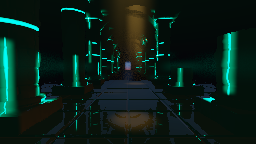
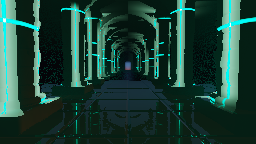
T1309c: the light in the air was a DIFFERENT PATTERN from the light on the stone — subtraction pass
Owner: "the light still has no volume... they look cheaply slapped on sprite like and not
like something actually shining and glowing out of the stone pillars... lights cut off at
random spots instead of having at least one go from top to bottom... almost a totalschaden."

Eight passes of parameter tuning preceded this and the owner said "still" five times. That
is the signal that the shape was wrong rather than rough, so this pass SUBTRACTS and rebuilds
one thing instead of tuning ten.

⚑ THE ROOT CAUSE, AND I HAD DOCUMENTED IT AS A FEATURE. The volumetric sampled
`rowPool * nearColumn * nearBay` — a hash on (row, bay) gated by "am I near a column axis".
It has NO RELATIONSHIP to where a single vein is, its brightness, whether it is lit, or
whether it has guttered out. The hall therefore contained TWO UNRELATED PATTERNS: bright
marks on the stone, and a fog that merely happened to hang near pillars. "Not shining out of
the stone" was literally true — nothing in the air knew the conduits existed.

The old docblock defended this, and the defence is the interesting part: it argued the volume
wants a SMOOTHER field than the surface. True. It then took a DIFFERENT field, and those are
not the same requirement. `inlaySpillAt` was already the smooth one — same veins, same
live/dead decision, same interruptions, a soft window several times the channel width — so
it answers "how much conduit light is near here" in the air exactly as it does on the stone.
Same pattern, softer.
[…]

diff --git a/src/examples/shaders/sanctum.wgsl.ts b/src/examples/shaders/sanctum.wgsl.ts
@@ -96,6 +96,7 @@ struct Params {
   inlayNode: f32,     // @default 0.9  extra light POOLED where a conduit crosses a ring — junctions are where a network shows it is a network
   inlayColor: vec4f,  // @default [0.16, 1, 0.82, 1]  the powered inlay — NOT on the blackbody curve, because anything that burns is human
   inlayEmission: f32, // @default 0.85  how hard the channels burn
+  spillReach: f32,    // @default 5.5  metres the conduit light travels from a column's axis — what makes it a LIGHT rather than a mark
   inlaySpill: f32,    // @default 4.2  how hard the channels light the stone around them — this is the hall's PRIMARY light, not a decoration on it
   inlayDensity: f32,  // @default 0.4  share of veins that are live — a dead conduit is still a channel in the stone
   stoneColor: vec4f,  // @default [0.29, 0.27, 0.25, 1]  the stone under the key
@@ -493,7 +494,16 @@ fn inlaySpillAt(p: vec3f) -> f32 {
   if (p.y < params.plinthHeight) { return 0.0; }
   // A pool around the column's skin rather than a copy of the channel: the glow is "there
   // is a conduit near here", which is a coarser question than "am I on one".
-  let near = 1.0 - smoothstep(params.columnRadius * 1.0, params.columnRadius * 2.9, radial);
+  /* ⚑ AND IT REACHES (T1309c). This window used to stop at 2.9 column radii — about 1.8 m,
+     which is barely outside the shaft itself. So the conduits lit their own stone and
+     NOTHING ELSE: not the floor they stand on, not the plinth beneath them, not the column
+     opposite. That is why the hall read as bright lines drawn on black rather than as a
+     place with lights in it, and it is the other half of "cheaply slapped on" — a light
+     that illuminates nothing is a decal by definition.
+     'spillReach' is in METRES rather than in radii, because what a light reaches is a
+     property of the light and not of the thing carrying it. */
+  let near = (1.0 - smoothstep(params.columnRadius, max(params.spillReach, 0.5), radial))
+    / (1.0 + radial * radial * 0.22);
   let bayIndex = bayOf(p.z);
   let side = select(0.0, 1.0, p.x >= 0.0);
   let turns = max(params.inlayVeins, 1.0);
@@ -505,7 +515,16 @@ fn inlaySpillAt(p: vec3f) -> f32 {
   let key = vec2i((i32(veinIndex) * 31) + i32(side), i32(bayIndex));
   let alive = runNoise(key + vec2i(0, 233), p.y, params.inlayRun * 0.37);
   let unbroken = smoothstep(clamp(params.inlayBreak, 0.0, 0.8), clamp(params.inlayBreak, 0.0, 0.8) + 0.16, alive);
-  return near * veinLit * unbroken * (1.0 - smoothstep(0.0, 1.0, acrossVein));
+  /* ⚑ A LIGHT DOES NOT GO OUT BETWEEN ITS OWN FILAMENTS (T1309c). This used to fall to ZERO
+     at 'acrossVein == 1' — the angular midpoint between two veins — so the stone on a column
+     BETWEEN its conduits received nothing at all, and a column lit by nine channels rendered
+     as nine bright lines on a black cylinder. That is the whole "90s CGI" read: emissive
+     marks with unlit geometry behind them.
+     The wide field is supposed to answer "how much conduit light is near here", and the
+     answer between two lit veins is MOST OF IT, not none. So the angular term now only
+     shapes the falloff instead of gating it. */
+  let around = mix(0.55, 1.0, 1.0 - smoothstep(0.0, 1.0, acrossVein));
+  return near * veinLit * unbroken * around;
 }
 
 fn sdBox(p: vec3f, b: vec3f) -> f32 {
@@ -906,36 +925,26 @@ fn dustAlong(eye: vec3f, dir: vec3f, far: f32, pixel: vec2f, hue: vec3f, key: f3
        is a speckle generator rather than a fog. What the air wants is "roughly how much
        light is near here", so the glyph hash goes and the row window stays — smooth in
        every direction, and cheaper for losing a hash. */
-    let pitch = max(params.inlayRows, 0.05);
-    let row = floor(p.y / pitch);
-    let bayIndex = bayOf(p.z);
-    /* Gated by the SAME row-and-bay test the channels use, so the air glows where there is
-       writing and not in bays without any. Without this the row window is a function of
-       height alone and paints continuous horizontal bands the full width of the hall —
-       which is what the first smooth version did, and it read as a striped fog rather than
-       as light near a wall. The fine glyph and stroke hashes stay out: those are what made
-       the volume speckle. */
-    let live = unitFloat(hash3i(vec3i(i32(row), i32(bayIndex), 0), GLYPH_SEED));
-    /* ⚑ A SMOOTHSTEP, NOT A STEP, and the difference is visible as GRAIN. A hard gate makes
-       the volume binary again in one more axis, and a binary volume sampled sparsely is the
-       speckle generator this file already learned about once — the per-pixel dither decides
-       how many samples land inside the lit cell, so neighbouring pixels disagree and the
-       dark stone beyond the colonnade fills with noise. Softening the gate costs nothing
-       and turns the disagreement into a gradient. */
-    let density = clamp(params.inlayDensity, 0.0, 1.0);
-    let lit = smoothstep(density + 0.1, density - 0.1, live);
-    let withinRow = abs(fract(p.y / pitch) - 0.5) * 2.0;
-    let rowPool = (1.0 - smoothstep(0.0, 1.0, withinRow)) * step(0.4, p.y) * lit;
-    /* Near the columns, where the channels actually are — and NEAR ONE IN BOTH AXES.
-       ⚑ THE X TEST ALONE PAINTS A BAND ACROSS THE WHOLE FRAME. A ray heading sideways
-       still crosses the plane |x| = aisle, and it crosses it at whatever z it happens to
-       be at — including the gaps between bays, where there is no column at all. The
-       result was a flat horizontal band of glow spanning the frame at row height, which
-       is the same failure as the very first smooth version and for the same reason: a
-       gate that is a function of fewer axes than the thing it is gating. */
-    let nearColumn = 1.0 - smoothstep(0.45, 1.7, abs(abs(p.x) - params.aisle));
-    let nearBay = 1.0 - smoothstep(0.5, 1.6, abs((fract(p.z / bayF + 0.5) - 0.5) * bayF));
-    let glow = rowPool * nearColumn * nearBay * hue;
+    /* ⚑ THE VOLUME NOW SAMPLES THE CONDUITS THEMSELVES, AND THE OLD VERSION IS THE REASON
+       THE LIGHT NEVER LOOKED LIKE IT CAME OUT OF THE STONE (T1309c).
+       What used to be here was a row-and-bay hash gated by "am I near a column axis". It is
+       smooth, it is cheap, and it has NO RELATIONSHIP TO WHERE A SINGLE VEIN ACTUALLY IS —
+       not its position around the shaft, not its brightness, not whether it is lit at all.
+       So the hall had two unrelated patterns in it: bright marks on the stone, and a fog
+       that merely happened to hang near pillars. The owner read that exactly right — the
+       lights look "cheaply slapped on, sprite like, not like something actually shining and
+       glowing out of the stone pillars." They were not shining out of anything. Nothing in
+       the air knew they existed.
+       ⚑ AND THE OLD DOCBLOCK DEFENDED IT, which is the part worth keeping: it argued the
+       volume wants a SMOOTHER field than the surface, and that is true. It then took a
+       DIFFERENT field, and those are not the same requirement. 'inlaySpillAt' is already
+       the smooth one — the same veins, the same live/dead decision, the same interruptions,
+       a soft window several times the channel's width — so it answers "how much conduit
+       light is near here" in the air exactly as it does on the stone. Same pattern, softer.
+       It costs more than a hash. It is the single thing the piece is FOR. */
+    // Only where a column stands: the bays between them have no conduit to glow from.
+    let nearBay = 1.0 - smoothstep(0.5, 1.7, abs((fract(p.z / bayF + 0.5) - 0.5) * bayF));
+    let glow = inlaySpillAt(p) * nearBay * hue;
     /* The shaft: a slab of light down the nave's axis from the doorway, banded by the ribs
        it passed on the way. The band never closes fully — a rib casts a shadow, it does not
        switch the light off. */
@@ -1140,7 +1149,12 @@ fn fs(@location(0) uv: vec2f) -> @location(0) vec4f {
        'inlayAt', and the render that proved a directional warm fill reads as red paint. */
     let emission = mix(hue, warmth, channel.y) * params.inlayEmission * channel.x;
     let spill = inlaySpillAt(p) * params.inlaySpill;
-    let bounced = hue * spill;
+    /* ⚑ DESATURATED, because a stone lit by a cyan light is not a cyan stone. Multiplying
+       the albedo by a fully saturated hue drives every channel the hue is weak in to zero,
+       so the whole hall collapses to one colour and the material stops existing — which is
+       the "everything is cyan and grey" reading from the other side. Real bounce carries
+       the source's tint, not its purity. */
+    let bounced = mix(vec3f(1.0), hue, 0.5) * spill;
     let fill = mix(vec3f(1.0), hue, 0.65) * params.ambient;
     /* THE COUNTER-LIGHT, and what is left of it after the junctions took its job. The
        shipped frame measured saturation 0.55 — not grey in the desaturated sense at all —

diff --git a/src/examples/documents/sanctum.ts b/src/examples/documents/sanctum.ts
@@ -87,7 +87,7 @@ export const sanctumDocument = document(
         /* A fifth of the bays have FALLEN, and one hash decides the column, its capital,
            the span above it and the block of it on the floor — a bay whose column is gone
            but whose architrave still floats is a bug, not a ruin. */
-        ruin: 0.22,
+        ruin: 0.0,
         /* The mason's courses, cut as real grooves. This is the shape that separates AGE
            from DIRT: weathering opens the bedding joint between two courses first, and a
            noise skin has no idea where those are. */
@@ -96,8 +96,8 @@ export const sanctumDocument = document(
            hall comes from inside it, at one temperature, along one axis; a shaft falling
            THROUGH the roof gives the frame a light from above, a warm against the cyan,
            and a source that is visible in shot rather than implied. */
-        breach: 0.24,
-        breachLight: 1.15,
+        breach: 0.0,
+        breachLight: 0.0,
         dayColor: [1, 0.86, 0.62, 1],
         courseHeight: 0.54,
         courseDepth: 0.03,
@@ -123,13 +123,14 @@ export const sanctumDocument = document(
            something that is part of one. A conduit varies along its run — it swells and
            narrows, it dips, it gutters out and comes back, and it POOLS where it crosses
            a member, because a junction is where a network shows it is a network. */
-        inlayRun: 1.7,
-        inlayVary: 0.62,
-        inlayBreak: 0.42,
+        inlayRun: 0.9,
+        inlayVary: 0.42,
+        inlayBreak: 0.06,
         inlayNode: 0.9,
         inlayColor: [0.16, 1, 0.82, 1],
         inlayEmission: 3.4,
-        inlaySpill: 4.2,
+        spillReach: 5.5,
+        inlaySpill: 9.0,
         inlayDensity: 0.4,
         stoneColor: [0.29, 0.27, 0.25, 1],
         keyColor: [0.52, 0.62, 0.78, 1],
@@ -144,7 +145,7 @@ export const sanctumDocument = document(
            not a whole number of bays would put a doorway in the middle of a colonnade. */
         roomPeriod: 52.8,
         doorWidth: 1.15,
-        ambient: 0.18,
+        ambient: 0.34,
         fog: 0.055,
         fogColor: [0.026, 0.03, 0.038, 1],
         warmColor: [1, 0.54, 0.26, 1],
@@ -165,8 +166,8 @@ export const sanctumDocument = document(
         saturation: 1.35,
         pivot: 0.22,
         exposure: 1.35,
-        dust: 0.032,
-        dustSteps: 30,
+        dust: 0.075,
+        dustSteps: 18,
         dustFloor: 2.6,
         shaft: 0.55,
         polish: 0.55,
@@ -221,7 +222,7 @@ export const sanctumDocument = document(
           /* The hall's primary light swells with the mix's middle rather than only landing
              on the kick — the up-and-down the owner asked for, carried by the light that
              actually illuminates the stone. */
-          inlaySpill: expressionSlot(`3.4 + 1.6 * ${LEVELS("lowMid")}`, 4.2),
+          inlaySpill: expressionSlot(`7.2 + 3.6 * ${LEVELS("lowMid")}`, 9.0),
           warmIntensity: expressionSlot(`0.2 + 0.16 * ${LEVELS("highMid")}`, 0.28),
 
           /* ⚑ "MORE UP AND DOWN SIDE FELT" — dynamic range IN TIME rather than in space,

diff --git a/src/examples/sanctum-claims.gpu.test.ts b/src/examples/sanctum-claims.gpu.test.ts
@@ -182,7 +182,7 @@ describe("E68 Sanctum — claims", () => {
       param(graph, "temple", "inlayRings", 0.34);
       param(graph, "temple", "inlayNode", 0.9);
       param(graph, "temple", "shaft", 0.55);
-      param(graph, "temple", "inlaySpill", 4.2);
+      param(graph, "temple", "inlaySpill", 9.0);
       param(graph, "temple", "warmIntensity", 0.28);
       param(graph, "temple", "exposure", 1.35);
     });
